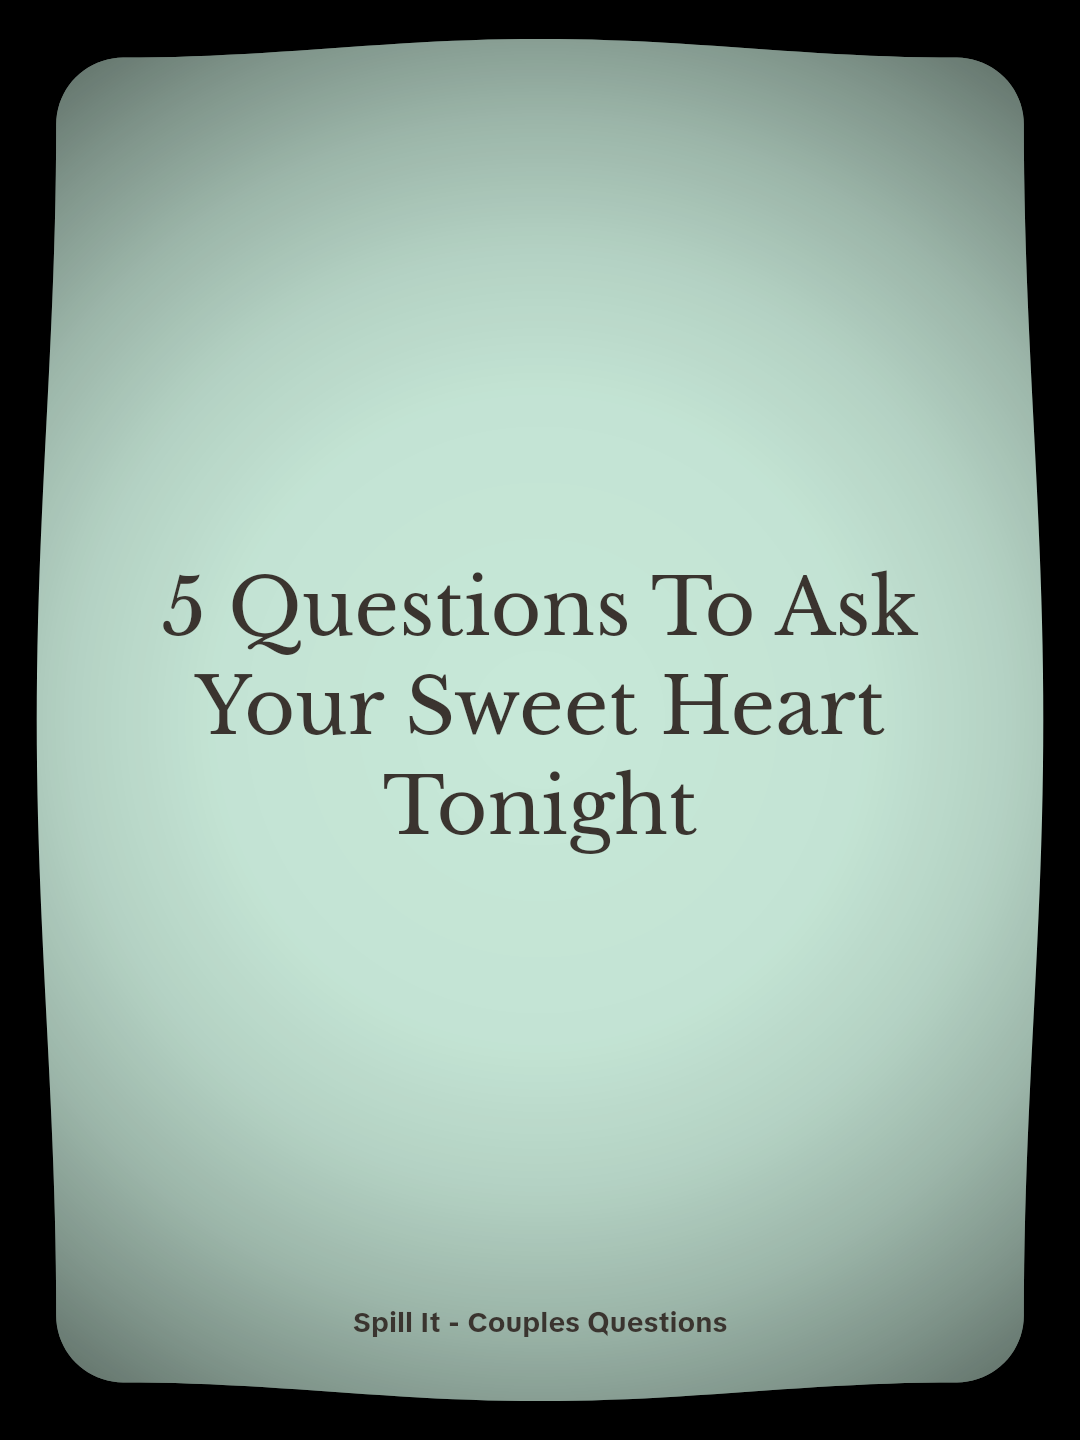
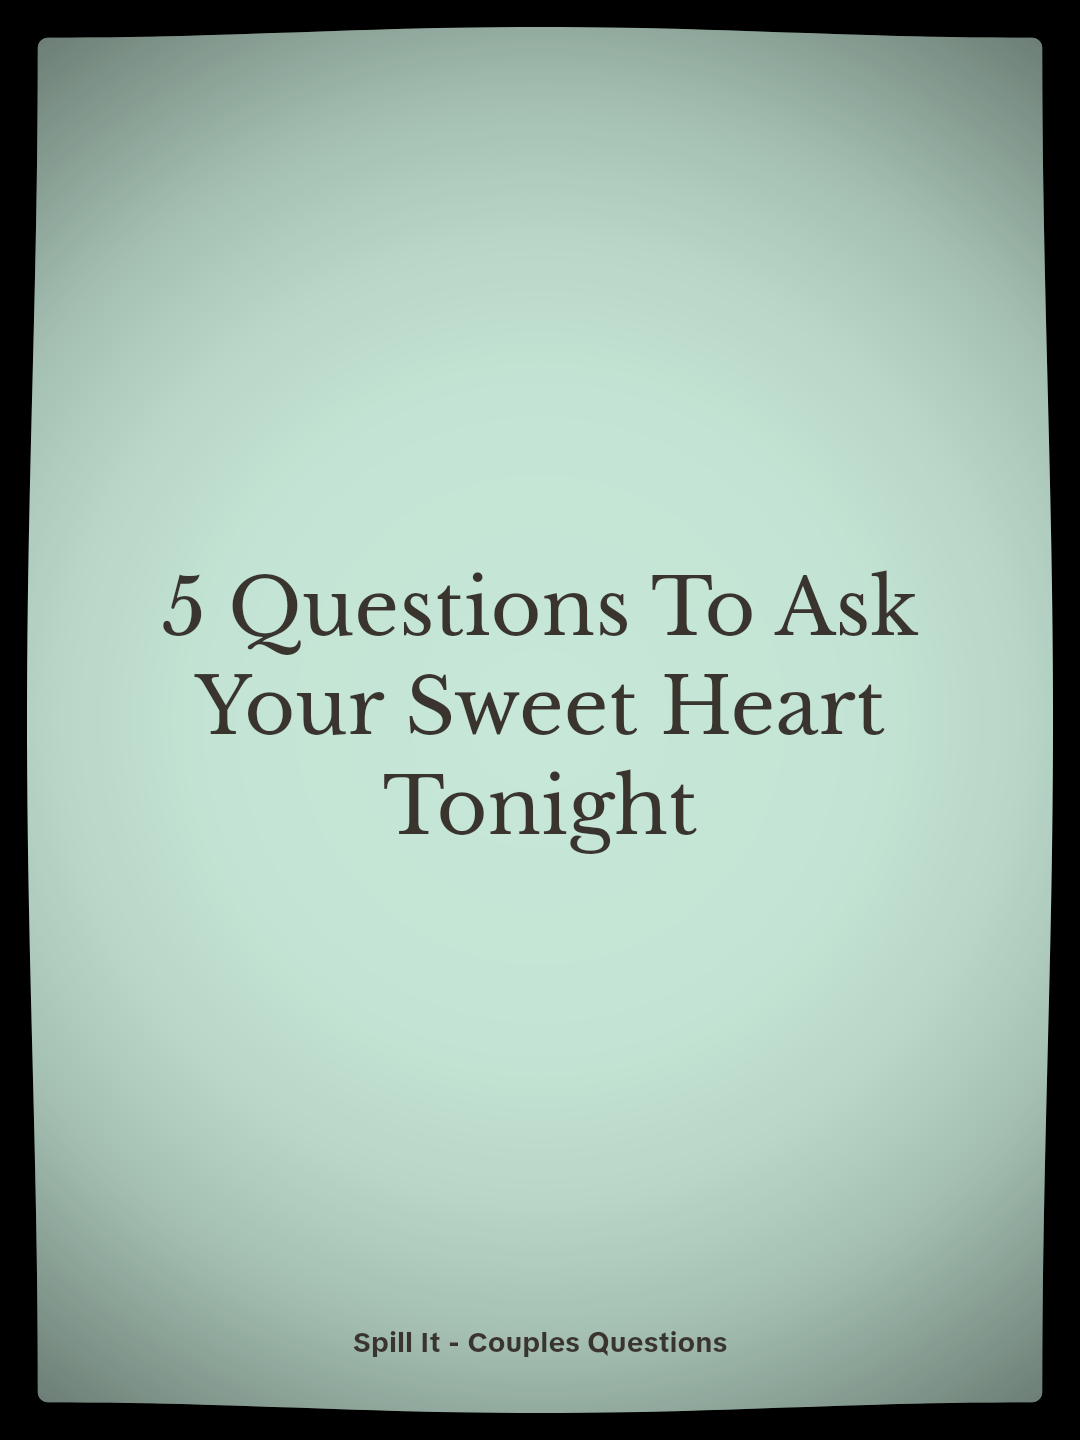
fix: make the template 18 card almost rectangular
The sides bow outward by about 1% of the width, the corners are a 10px radius, and the black margin is about 2.5% of the width.

Changed region(s): [[0.0, 0.0, 0.9778, 1.0], [0.3056, 0.9062, 0.6722, 0.9375]]

diff --git a/app/lib/image-template-18-pastel.ts b/app/lib/image-template-18-pastel.ts
@@ -29,16 +29,17 @@ export const IMAGE_TEMPLATE18_FOOTER = IMAGE_TEMPLATE2_APP_FOOTER;
 /** Full-bleed frame behind the card. */
 export const IMAGE_TEMPLATE18_CANVAS_BG = '#000000';
 /**
- * Corner of the card, before the outward bulge.
- * Edge midpoints push past this toward the canvas so the sides bow out.
+ * Black gap at the middle of each side, as a fraction of frame width.
+ * The same pixel thickness is used on the top and bottom.
  */
-export const IMAGE_TEMPLATE18_CARD_INSET_X = 0.052;
-export const IMAGE_TEMPLATE18_CARD_INSET_Y = 0.04;
-/** Cubic control offset. The visible bow is about three quarters of this. */
-export const IMAGE_TEMPLATE18_CARD_BULGE_X = 0.018;
-export const IMAGE_TEMPLATE18_CARD_BULGE_Y = 0.013;
-/** Corner radius as a fraction of the frame width. */
-export const IMAGE_TEMPLATE18_CARD_RADIUS = 0.062;
+export const IMAGE_TEMPLATE18_CARD_MARGIN = 0.025;
+/**
+ * How far the middle of each side bows outward from the straight edge,
+ * as a fraction of frame width. About 1% — a slight convex bow, not a wave.
+ */
+export const IMAGE_TEMPLATE18_CARD_BULGE = 0.01;
+/** Corner radius on a 1080-wide frame. Barely rounded; scales with width. */
+export const IMAGE_TEMPLATE18_CARD_RADIUS_AT_1080 = 10;
 
 export const IMAGE_TEMPLATE18_PROGRESS_H = 0.0065;
 export const IMAGE_TEMPLATE18_PROGRESS_GAP = 0.012;
@@ -96,20 +97,24 @@ export type Template18Card = {
   bulgeY: number;
 };
 
-/** Axis-aligned corner box. Edge midpoints bulge outward from these sides. */
+/**
+ * Corner box of an almost-rectangular card.
+ * Each side's midpoint bows outward by `bulge` (1% of width), so the black
+ * margin is thinnest there and only a little wider at the corners.
+ */
 export function template18Card(width: number, height: number): Template18Card {
-  const left = width * IMAGE_TEMPLATE18_CARD_INSET_X;
-  const right = width - left;
-  const top = height * IMAGE_TEMPLATE18_CARD_INSET_Y;
-  const bottom = height - top;
+  const margin = width * IMAGE_TEMPLATE18_CARD_MARGIN;
+  const bulge = width * IMAGE_TEMPLATE18_CARD_BULGE;
+  const inset = margin + bulge;
+  const radius = Math.min((IMAGE_TEMPLATE18_CARD_RADIUS_AT_1080 / 1080) * width, margin);
   return {
-    left,
-    right,
-    top,
-    bottom,
-    radius: Math.min(width * IMAGE_TEMPLATE18_CARD_RADIUS, (right - left) * 0.22),
-    bulgeX: width * IMAGE_TEMPLATE18_CARD_BULGE_X,
-    bulgeY: height * IMAGE_TEMPLATE18_CARD_BULGE_Y,
+    left: inset,
+    right: width - inset,
+    top: inset,
+    bottom: height - inset,
+    radius,
+    bulgeX: bulge,
+    bulgeY: bulge,
   };
 }
 
@@ -403,10 +408,10 @@ export function drawTemplate18Vignette(
   const gradient = ctx.createRadialGradient(cx, cy, outer * 0.05, cx, cy, outer);
   gradient.addColorStop(0, 'rgba(0,0,0,0)');
   gradient.addColorStop(0.36, 'rgba(0,0,0,0.02)');
-  gradient.addColorStop(0.55, 'rgba(0,0,0,0.1)');
-  gradient.addColorStop(0.72, 'rgba(0,0,0,0.22)');
-  gradient.addColorStop(0.86, 'rgba(0,0,0,0.36)');
-  gradient.addColorStop(1, 'rgba(0,0,0,0.52)');
+  gradient.addColorStop(0.55, 'rgba(0,0,0,0.08)');
+  gradient.addColorStop(0.72, 'rgba(0,0,0,0.18)');
+  gradient.addColorStop(0.86, 'rgba(0,0,0,0.32)');
+  gradient.addColorStop(1, 'rgba(0,0,0,0.46)');
   ctx.fillStyle = gradient;
   ctx.fillRect(0, 0, width, height);
 }
